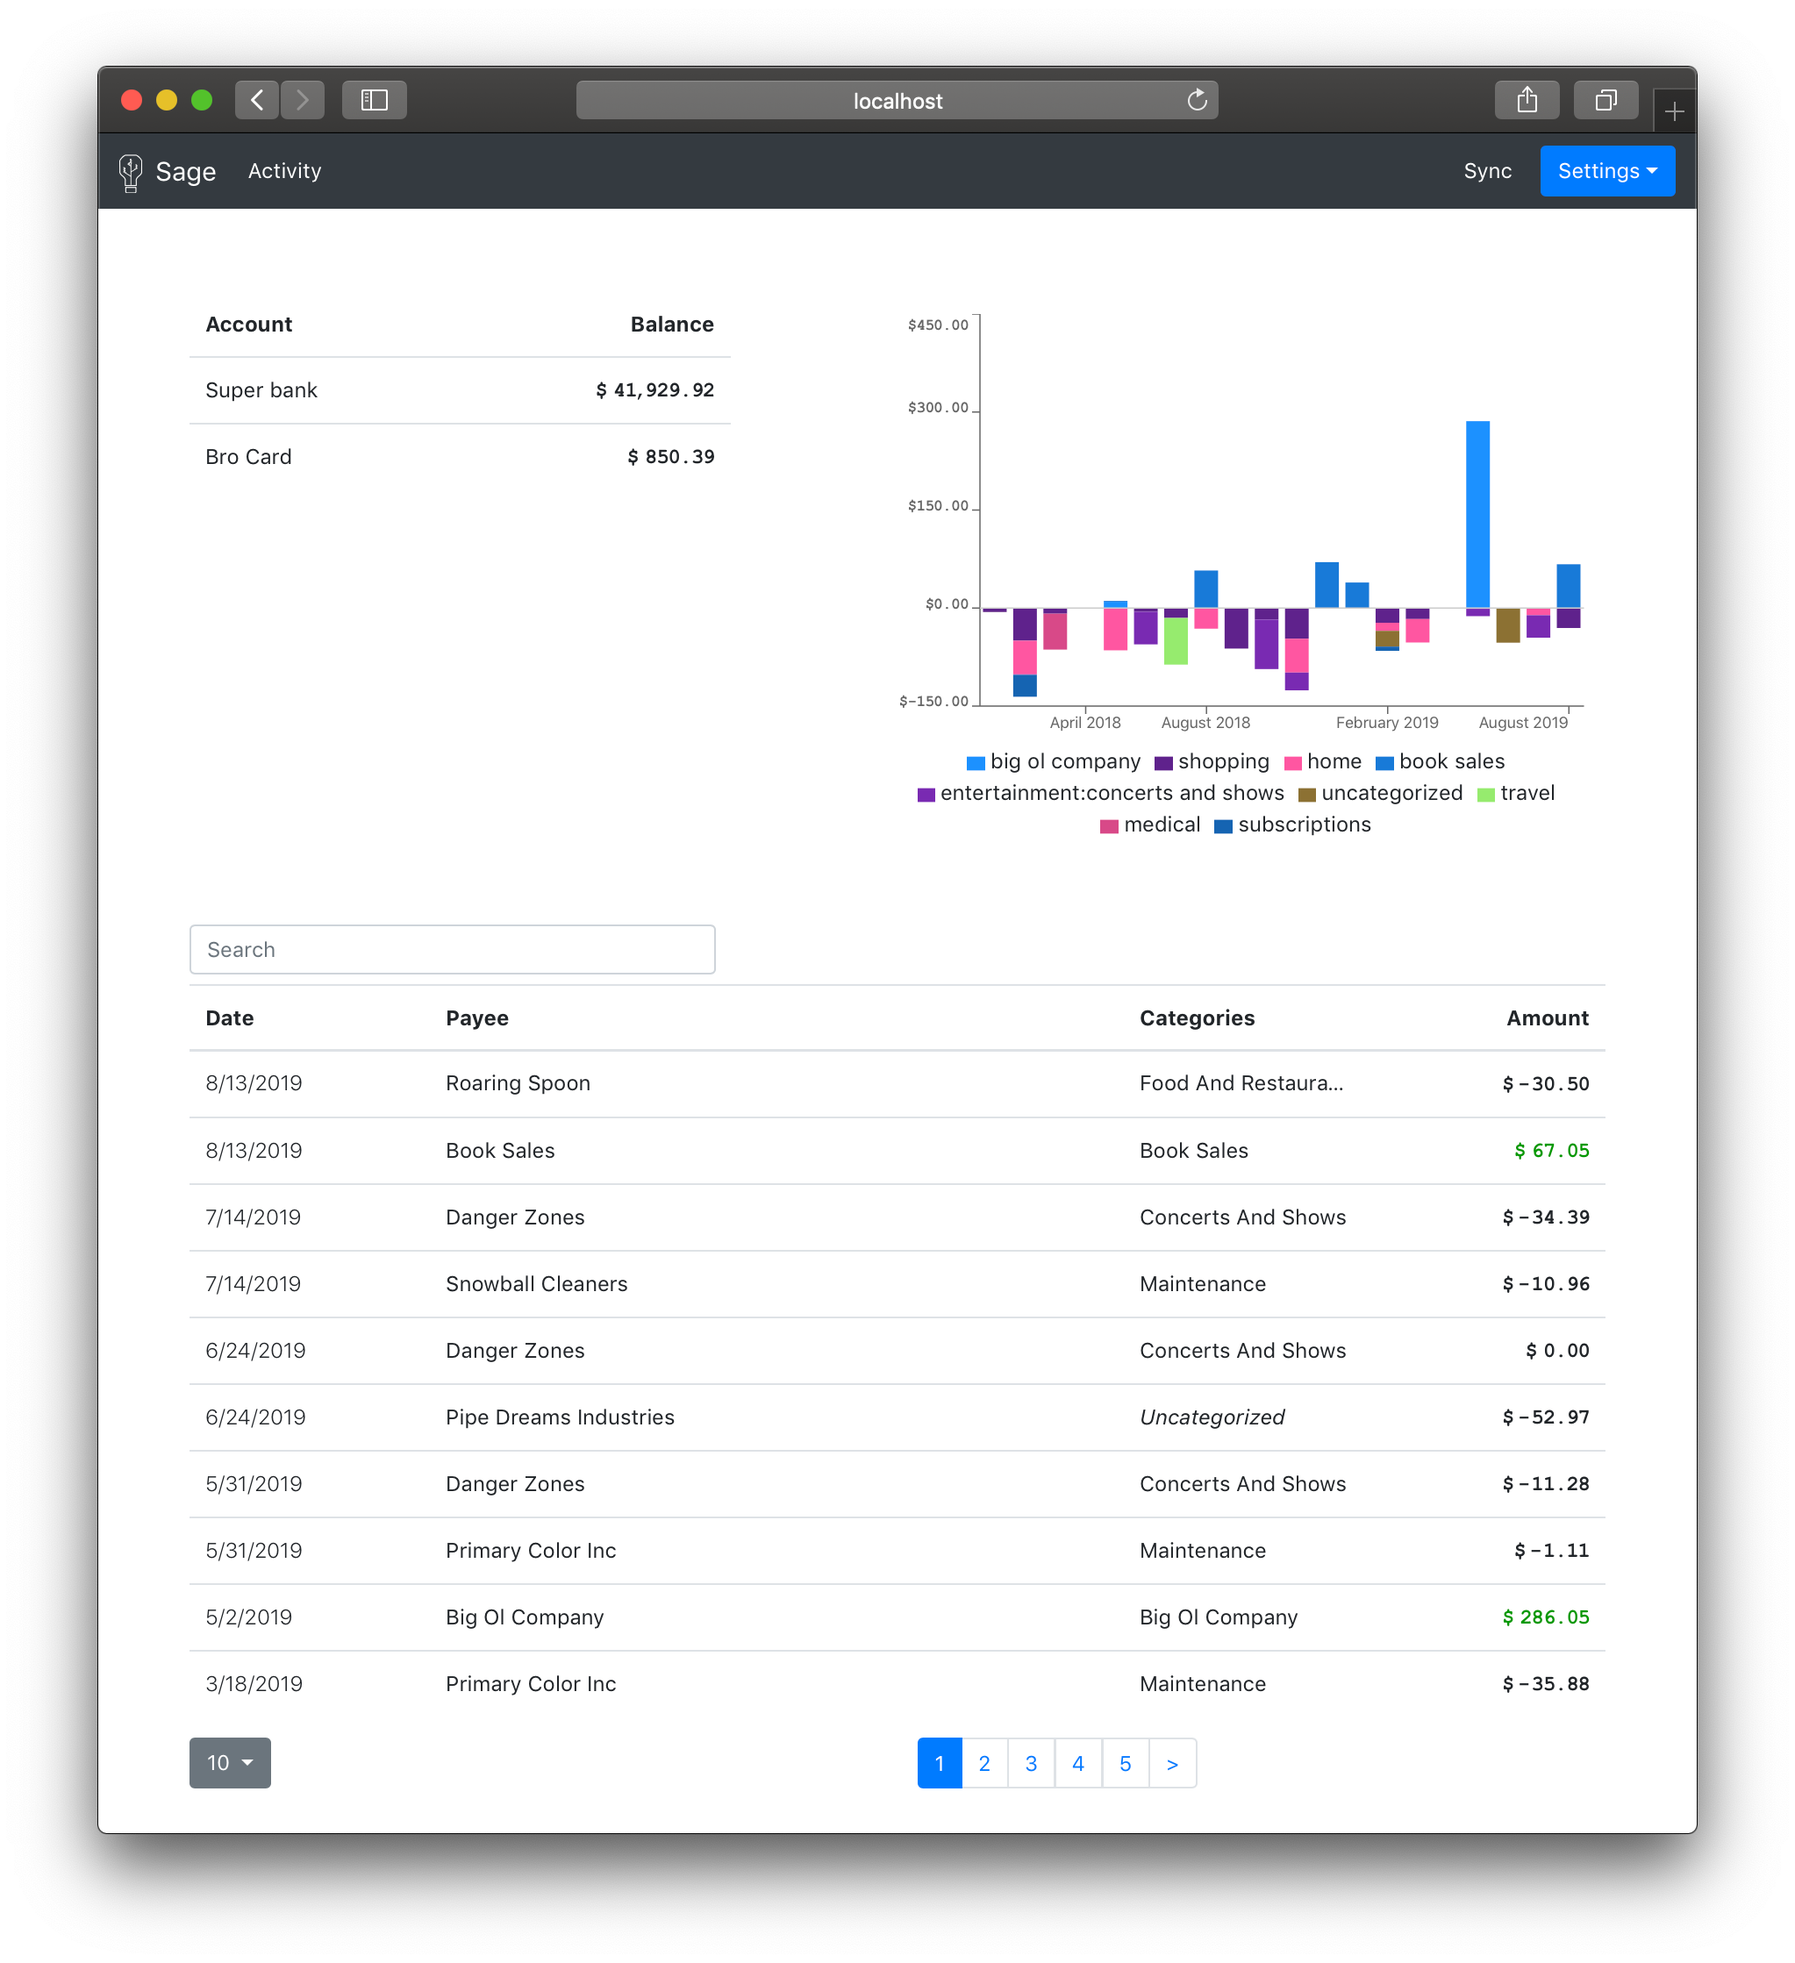
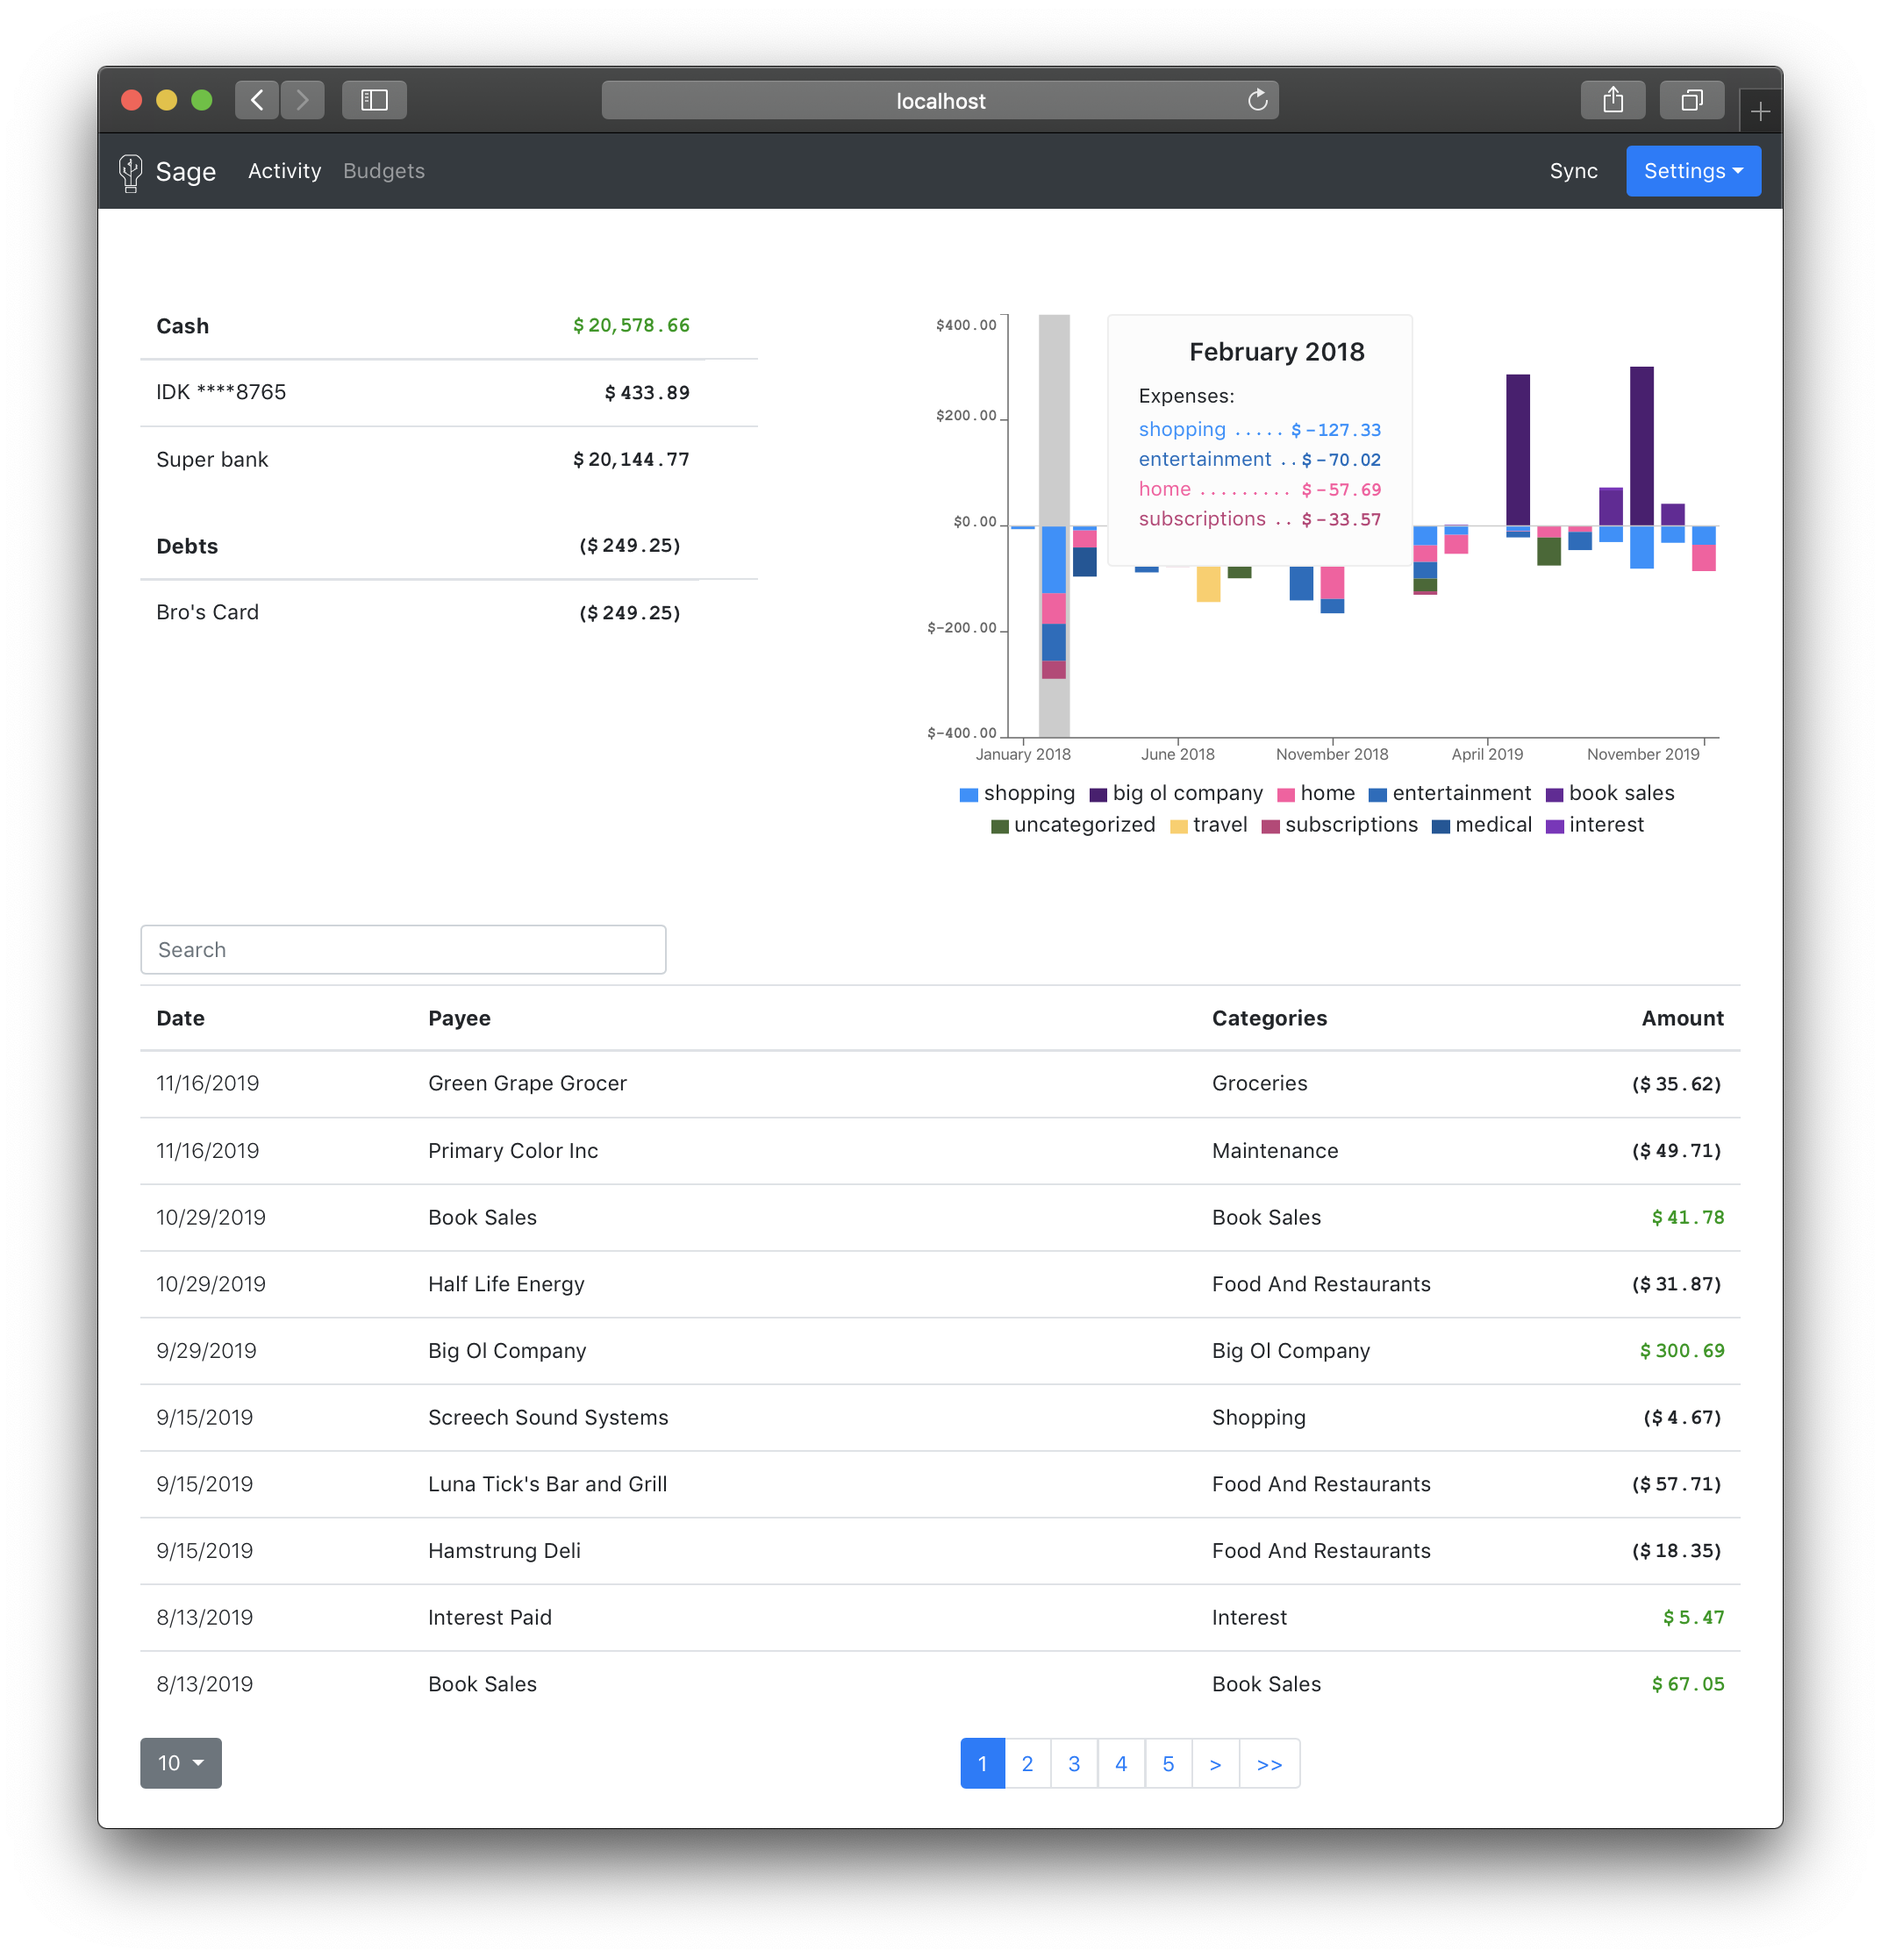
Revise README for v0.6.0 updates

diff --git a/README.md b/README.md
@@ -2,20 +2,27 @@
 
 Be your own accountant, without the stress.
 
-Automatically download transactions from your banks and credit cards, then categorize them based on your own rules.
+Examine your finances with ease.
+Automatically download transactions from your banks and credit cards, then run the numbers.
+
+Get the latest release [here](#install), then [let us know what you think][feedback]!
+
+[feedback]: https://github.com/JohnStarich/sage/issues/new
+
+![Activity page demo](.github/media/activity.png)
+<p align="center"><em>See your latest balances, expenses, and transactions.</em></p>
 
 ## Features
 
-* [x] Automatically sync your ledger with banks and credit card institutions
-* [x] Securely downloads data directly from your bank or credit card company
+* [x] Securely & automatically download data directly from your bank or credit card company
+* [x] View and edit transactions, balances, and budgets
 * [x] Uses [double-entry bookkeeping][] to keep things in check
-* [x] Web UI to view transactions, accounts, and balances
-* [x] Web UI to add credentials for new accounts 
+* [x] Web Connect <sup>(beta)</sup> and Direct Connect support
 * [x] Can deploy as a single binary or as a Docker container
+* [x] Automatic version control
 
-![Activity page demo](.github/media/activity.png)
-
-For future features, [see below](#future-work)
+![Budgets page demo](.github/media/budgets.png)
+<p align="center"><em>Manage monthly budgets to keep track of your expenses.</em></p>
 
 [double-entry bookkeeping]: https://en.wikipedia.org/wiki/Double-entry_bookkeeping_system
 
@@ -53,9 +60,15 @@ chmod +x sage
 
 For available options, run `sage -help`
 
+## Future work
+
+* Over-budget notifications
+* Forecasts on current transactions to identify trends
+* Smarter categorization by training on current ledger
+
 ## Data storage
 
-Sage uses a ledger ([plain text accounting][]) file, a simple JSON-encoded accounts file, and an [`hledger` rules][hledger rules] file.
+Sage uses a ledger ([plain text accounting][]) file, some simple JSON-encoded files, and an [`hledger` rules][hledger rules] file.
 **You won't need to know about these files to use Sage.** However, if you're a power-user, then these formats may come in handy.
 
 [plain text accounting]: https://plaintextaccounting.org
@@ -72,13 +85,6 @@ Currently, the web UI only supports `account2`.
 
 [hledger]: https://github.com/simonmichael/hledger
 [ledger tools]: https://plaintextaccounting.org/#plain-text-accounting-tools
-
-## Future work
-
-* [ ] Budget tracking (maybe add over-budget notifications)
-* [ ] Forecasts on current transactions to identify trends
-* [ ] Automatic version control to reduce risk of data loss
-* [ ] Smarter categorization by training on current ledger
 
 ## Awesome libraries 👏
 
